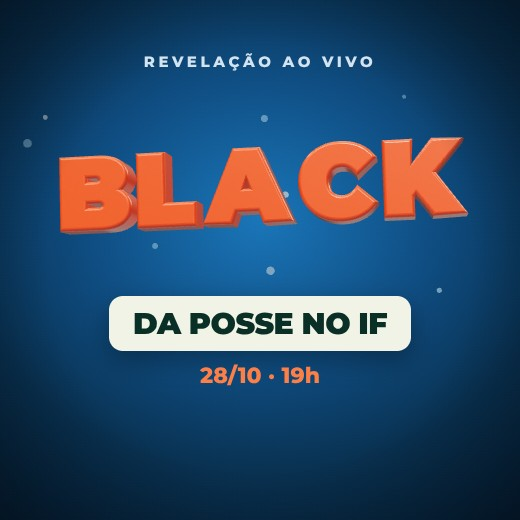
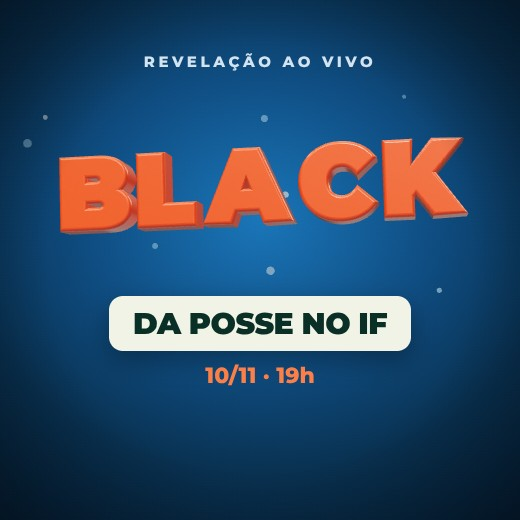
Add files via upload

Changed region(s): [[0.3692, 0.7077, 0.6154, 0.7385]]

diff --git a/lps/bio-dqif/black/index.html b/lps/bio-dqif/black/index.html
@@ -97,7 +97,7 @@ a{text-decoration:none;color:inherit}
   <!-- 1 · BLACK DA POSSE NO IF (destaque) -->
   <a class="card feat" data-link="black" href="https://site.dissecandoquestoes.com/captacao/black-posse-if/?utm_source=instagram&utm_medium=bio&utm_campaign=black-posse-if">
     <div class="body">
-      <span class="tag">Revelação ao vivo · 28/10, às 19h</span>
+      <span class="tag">Revelação ao vivo · 10/11, às 19h</span>
       <h2>Black da Posse no IF</h2>
       <p>Entre no grupo VIP: o link da live e a condição especial chegam por lá.</p>
     </div>
